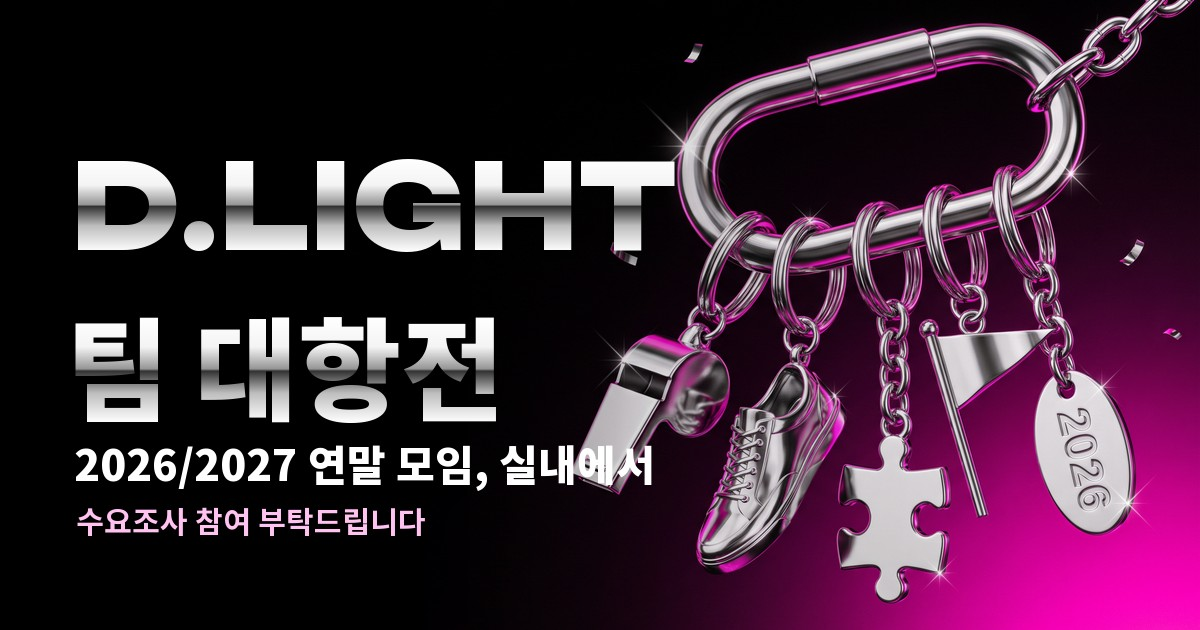
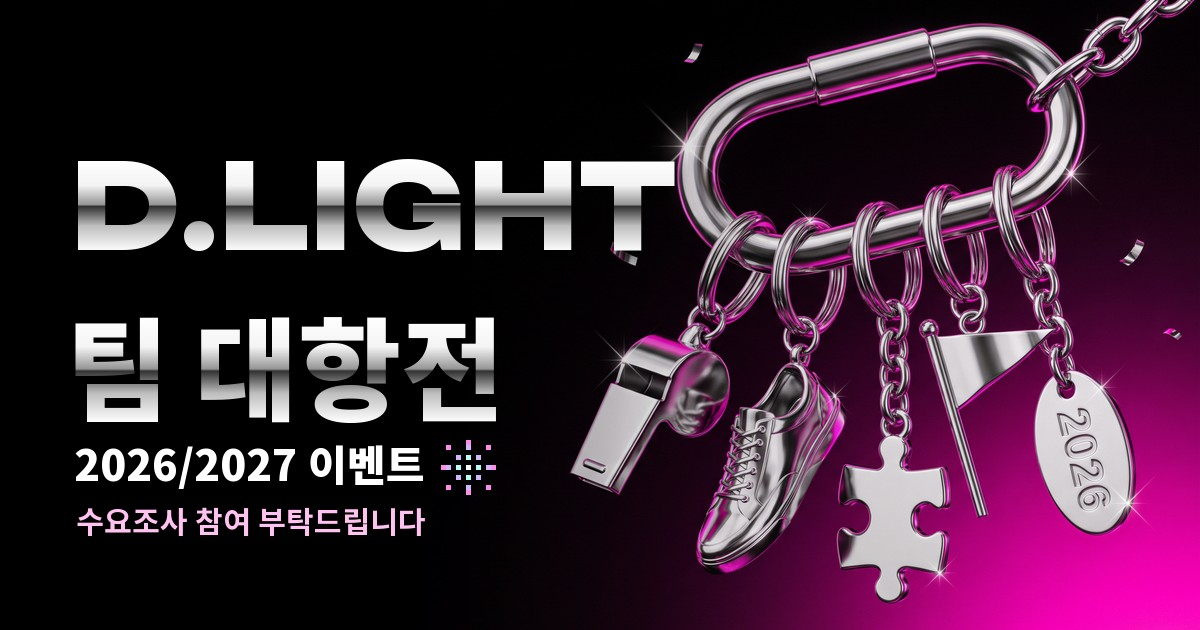
제목 줄 2026/2027 이벤트, 날짜 효과음 교체

Changed region(s): [[0.2467, 0.6937, 0.555, 0.7841]]

diff --git a/index.html b/index.html
@@ -7,7 +7,7 @@
 <meta name="description" content="몸도 쓰고 머리도 쓰는 디라이트 실내 팀 대항전. 수요조사에 참여 부탁드립니다.">
 <meta property="og:title" content="D.LIGHT 실내 팀 대항전 2026">
 <meta property="og:description" content="가벼운 운동, 협동 미션, 디자이너 감각 두뇌 게임. 수요조사에 참여 부탁드립니다.">
-<meta property="og:image" content="https://dlight-night.github.io/img/og.jpg?v=15">
+<meta property="og:image" content="https://dlight-night.github.io/img/og.jpg?v=16">
 <meta property="og:image:width" content="1200">
 <meta property="og:image:height" content="630">
 <meta property="og:url" content="https://dlight-night.github.io/">
@@ -116,8 +116,14 @@ button,input,textarea{font:inherit;color:inherit}
 .hero h1{font-family:var(--display);font-weight:800;line-height:.92;letter-spacing:-.03em;
   font-size:clamp(52px,15.5vw,168px)}
 @media(min-width:768px){.hero h1{font-size:clamp(72px,11vw,152px)}}
-.yr-break{display:none}
-@media(max-width:767px){.hero h1 span.yr{font-size:24px;line-height:1.3}.yr-break{display:block}}
+.hero h1 span.yr{display:flex;align-items:center;gap:8px;white-space:nowrap}
+.spark{display:block;flex:none;width:33px;height:33px;margin:0;transform:translateY(-1px);shape-rendering:crispEdges;overflow:visible}
+@media(min-width:1024px){.hero h1 span.yr{gap:12px}.spark{width:44px;height:44px}}
+.spark rect{opacity:1}
+.motion .spark .kb,.motion .spark .kc{animation:spark 2.4s ease-in-out infinite}
+.motion .spark .kc{animation-delay:-1.2s}
+@keyframes spark{0%,100%{opacity:1}50%{opacity:.75}}
+@media(prefers-reduced-motion:reduce){.spark rect{animation:none!important;opacity:1}}
 .hero h1 span{display:block}
 .hero h1 .kr{font-family:var(--body);font-weight:900;letter-spacing:-.05em;line-height:1.08;font-size:.9em}
 .hero h1 .yr{font-family:var(--body);font-weight:800;font-size:clamp(26px,3.4vw,46px);line-height:1.2;letter-spacing:-.02em;margin-top:.5em;color:#fff}
@@ -335,7 +341,7 @@ fieldset.bad .field-error{display:block}
   <div class="hero-art"><img class="heroimg" src="img/hero.jpg" alt="호루라기, 운동화, 퍼즐 조각, 깃발 모양 참이 달린 크롬 키링" width="2528" height="1696"></div>
   <canvas class="fx" id="fx" aria-hidden="true"></canvas>
   <div class="hero-copy">
-    <h1><span class="chrome">D.LIGHT</span><span class="chrome kr">팀 대항전</span><span class="yr">2026/2027 <br class="yr-break">연말 모임, 실내에서</span></h1>
+    <h1><span class="chrome">D.LIGHT</span><span class="chrome kr">팀 대항전</span><span class="yr">2026/2027 이벤트<svg class="spark" viewBox="0 0 11 11" aria-hidden="true"><rect class="kw" x="5" y="5" width="1" height="1" fill="#FFFFFF"/><rect class="ka" x="5" y="3" width="1" height="1" fill="#B8FFF6"/><rect class="ka" x="5" y="7" width="1" height="1" fill="#B8FFF6"/><rect class="ka" x="3" y="5" width="1" height="1" fill="#B8FFF6"/><rect class="ka" x="7" y="5" width="1" height="1" fill="#B8FFF6"/><rect class="kb" x="3" y="3" width="1" height="1" fill="#D2B6FF"/><rect class="kb" x="7" y="3" width="1" height="1" fill="#D2B6FF"/><rect class="kb" x="3" y="7" width="1" height="1" fill="#D2B6FF"/><rect class="kb" x="7" y="7" width="1" height="1" fill="#D2B6FF"/><rect class="kb" x="5" y="1" width="1" height="1" fill="#D2B6FF"/><rect class="kb" x="5" y="9" width="1" height="1" fill="#D2B6FF"/><rect class="kb" x="1" y="5" width="1" height="1" fill="#D2B6FF"/><rect class="kb" x="9" y="5" width="1" height="1" fill="#D2B6FF"/><rect class="kc" x="5" y="0" width="1" height="1" fill="#FF8CE8"/><rect class="kc" x="5" y="10" width="1" height="1" fill="#FF8CE8"/><rect class="kc" x="0" y="5" width="1" height="1" fill="#FF8CE8"/><rect class="kc" x="10" y="5" width="1" height="1" fill="#FF8CE8"/><rect class="kc" x="1" y="1" width="1" height="1" fill="#FF8CE8"/><rect class="kc" x="9" y="1" width="1" height="1" fill="#FF8CE8"/><rect class="kc" x="1" y="9" width="1" height="1" fill="#FF8CE8"/><rect class="kc" x="9" y="9" width="1" height="1" fill="#FF8CE8"/></svg></span></h1>
     <p class="lede">가벼운 운동부터 협동 미션, 디자이너의 감각을 활용한 두뇌 게임까지!<br>팀을 이뤄 몸도 쓰고 머리도 쓰는 실내 팀 대항전을 준비해보려고 합니다.<br>잠시 시간 내셔서 수요조사 참여 부탁드립니다.</p>
     <a class="go" href="#survey">1분 수요조사 하기</a>
   </div>
@@ -454,7 +460,7 @@ $("#tags").innerHTML = ["2026", "2027"].map((y) => {
     return `<label><input type="checkbox" name="date" value="${x.v}" aria-label="${y}년 ${m}월 ${d}일 ${x.w}요일"><span class="tag${x.w === "일" ? " sun" : ""}" aria-hidden="true"><span class="tag-month">${two(m)}월</span><b>${two(d)}</b><i>${x.w}</i><em></em></span></label>`;
   }).join("") + "</div>").join("") + "</div></div>";
 }).join("");
-// 날짜 태그를 걸 때 나는 키링 소리(누른 뒤에만 재생되므로 iOS·안드로이드에서도 난다)
+// 날짜 메달을 고를 때 나는 소리: 쇠 참이 챠랑 하고 물방울이 떨어진다(일레븐랩스 효과음 두 개를 겹침)(누른 뒤에만 재생되므로 iOS·안드로이드에서도 난다)
 const sfx = {on: true, ctx: null, buf: null, el: null, live: new Set()};
 function hush(fade) { sfx.live.forEach((x) => { try { x.g.gain.setTargetAtTime(0, sfx.ctx.currentTime, fade); x.src.stop(sfx.ctx.currentTime + fade * 5); } catch (e) {} }); sfx.live.clear(); if (sfx.el) sfx.el.pause(); }
 function jingle(rate) {
@@ -463,20 +469,21 @@ function jingle(rate) {
     const AC = window.AudioContext || window.webkitAudioContext;
     if (AC && !sfx.ctx) {
       sfx.ctx = new AC();
-      fetch("img/jingle.mp3").then((r) => r.arrayBuffer()).then((a) => new Promise((ok, no) => sfx.ctx.decodeAudioData(a, ok, no))).then((b) => { sfx.buf = b; }).catch(() => {});
+      fetch("img/chime.mp3?v=2").then((r) => r.arrayBuffer()).then((a) => new Promise((ok, no) => sfx.ctx.decodeAudioData(a, ok, no))).then((b) => { sfx.buf = b; }).catch(() => {});
     }
     if (sfx.ctx && sfx.ctx.state === "suspended") sfx.ctx.resume();
     if (sfx.ctx && sfx.buf) {
       const src = sfx.ctx.createBufferSource(), g = sfx.ctx.createGain();
       src.buffer = sfx.buf; src.playbackRate.value = rate; g.gain.value = 0.7; hush(0.015); src.connect(g); g.connect(sfx.ctx.destination); const item = {src, g}; sfx.live.add(item); src.onended = () => { sfx.live.delete(item); try { src.disconnect(); g.disconnect(); } catch (e) {} }; src.start();
     } else {  // 아직 못 읽었으면 일반 재생
-      if (!sfx.el) sfx.el = new Audio("img/jingle.mp3");
+      if (!sfx.el) sfx.el = new Audio("img/chime.mp3?v=2");
       sfx.el.currentTime = 0; sfx.el.volume = 0.7; const pr = sfx.el.play(); if (pr && pr.catch) pr.catch(() => {});
     }
   } catch (e) {}
 }
 $("#tags").addEventListener("change", (e) => {
-  if (e.target.checked) jingle(0.94 + DATES.findIndex((x) => x.v === e.target.value) * 0.05); else jingle(0.8);
+  // 메달마다 음 높이가 다르다(5음 음계로 올라간다). 풀 때는 낮은 음
+  if (e.target.checked) jingle(Math.pow(2, [-4, -2, 0, 1, 3, 5, 6, 8][DATES.findIndex((x) => x.v === e.target.value)] / 12)); else jingle(0.7);
   const l = e.target.closest("label"); l.classList.remove("hit"); void l.offsetWidth; l.classList.add("hit");
 });
 $("#bars").innerHTML = ["2026", "2027"].map((y) => `<div class="bar-group"><p class="bar-year">${y}</p>` + DATES.filter((x) => x.y === y).map((x) =>
